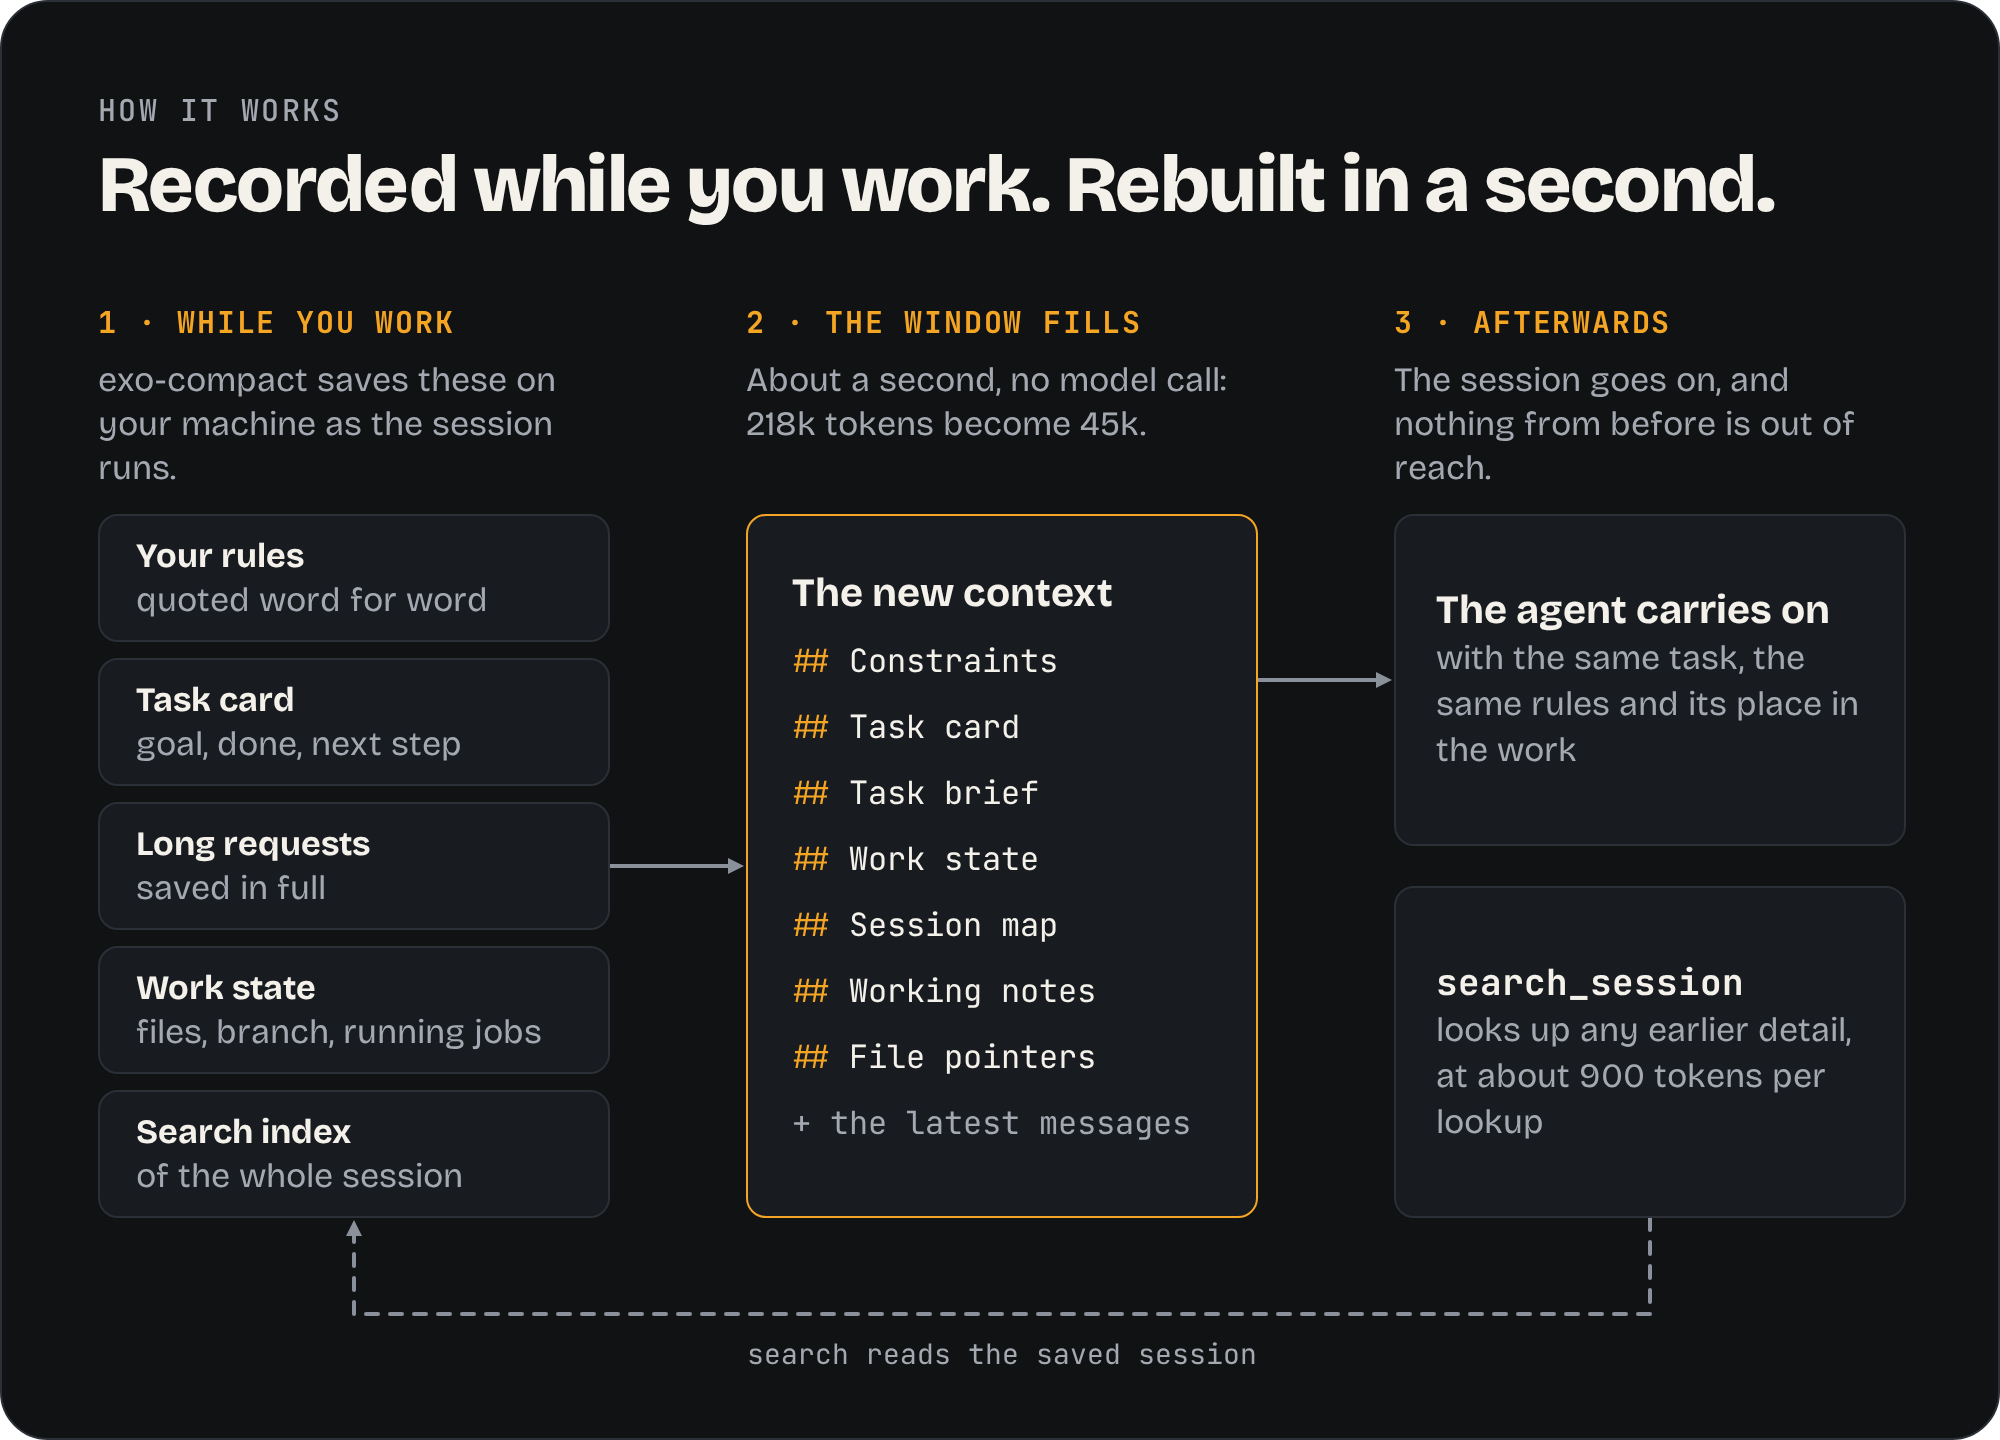
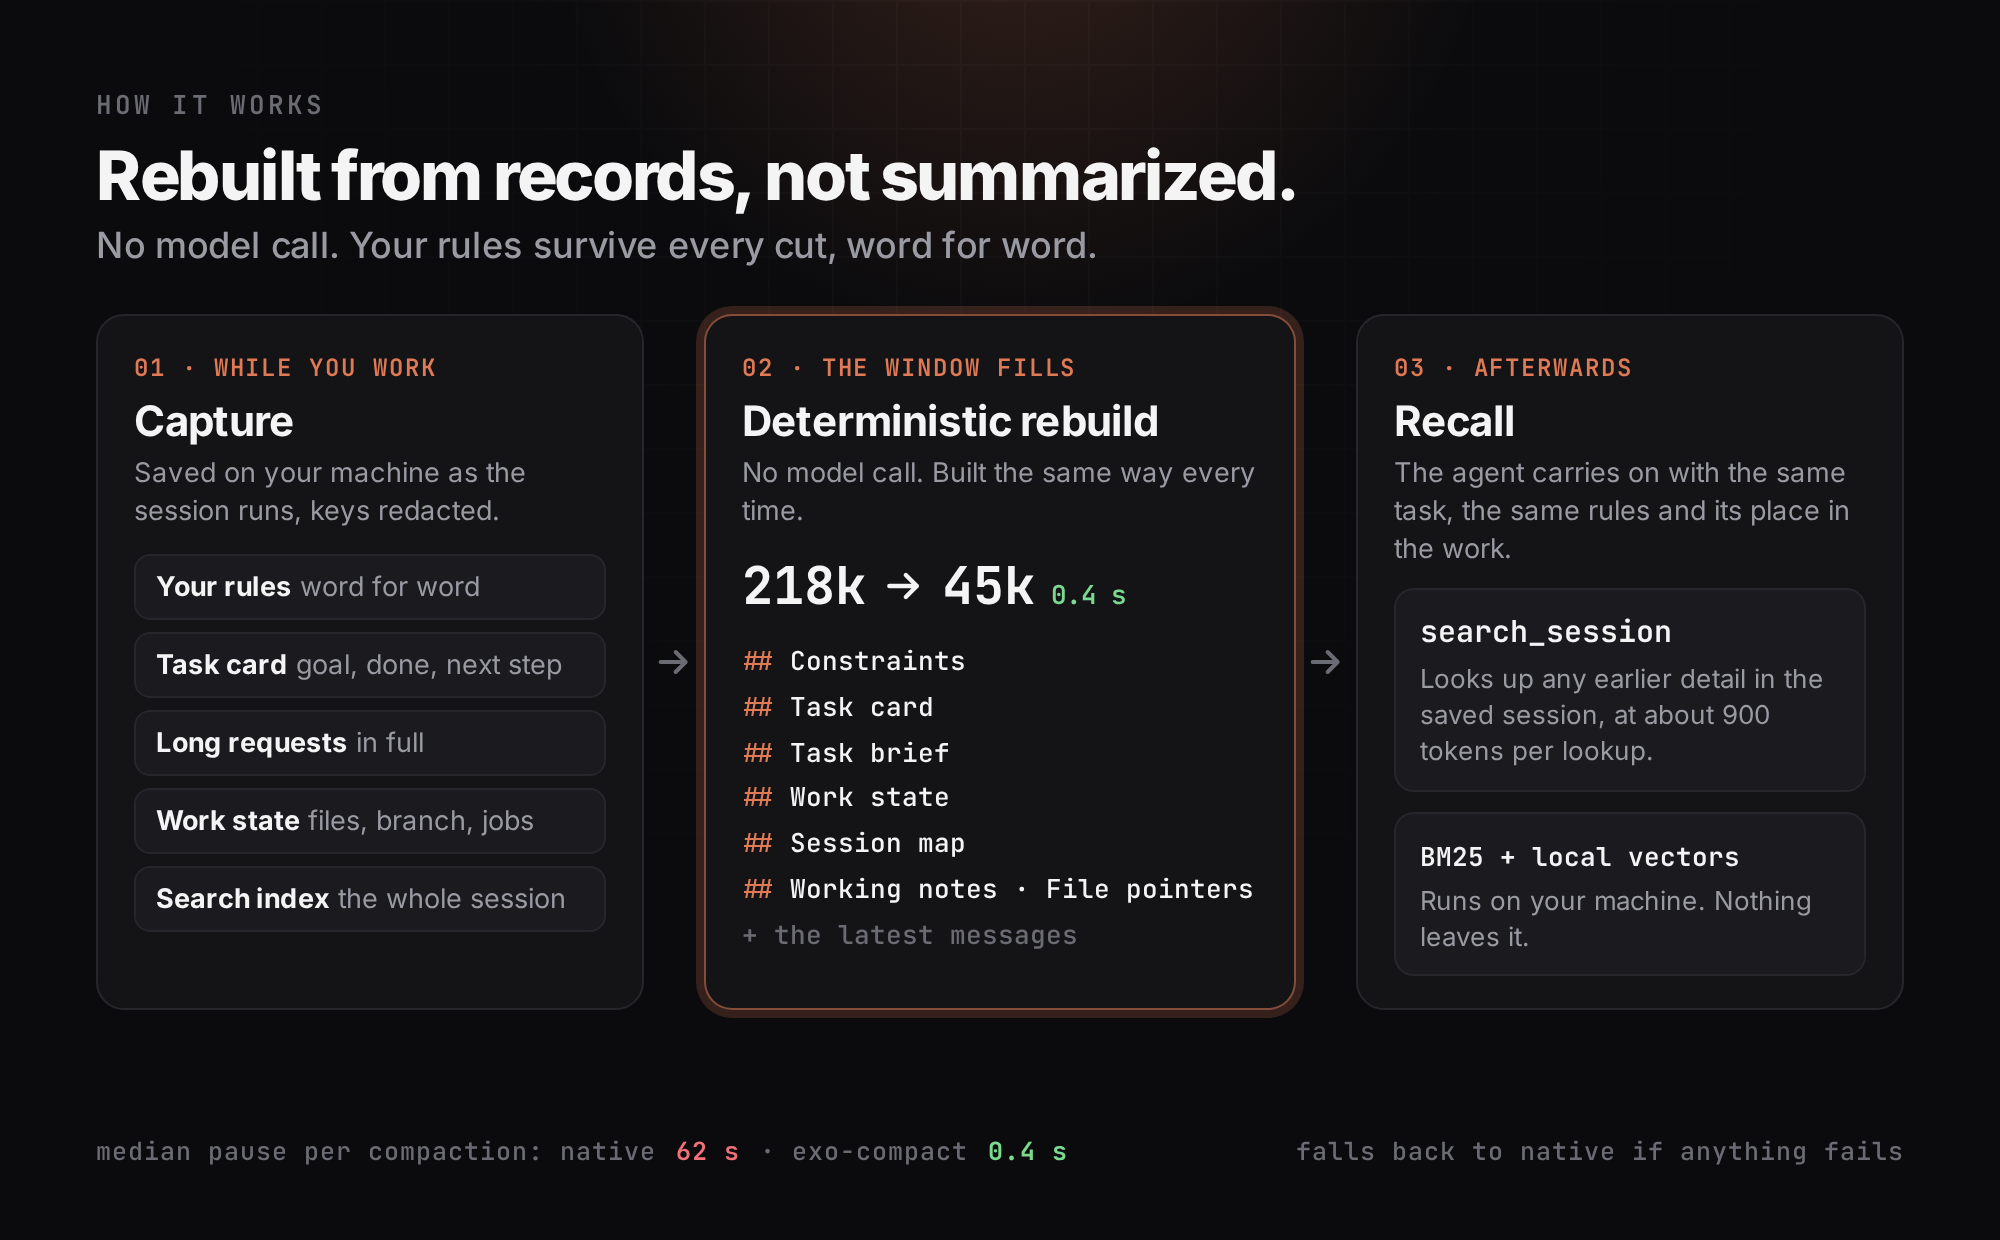
docs(readme): new lead, three-step how it works, new graphic; installer detached-HEAD fix
README:
- A lead under the badges: deterministic compaction, 0.4 s instead of 62 s, no model call;
  the context is rebuilt from records, not summarized.
- "How it works" is now three readable steps: 01 Capture, 02 Deterministic rebuild,
  03 Recall with search_session. The seed-sections block and every benchmark figure stay.
- docs/assets/how-it-works-{dark,light}.png redrawn in the new style (2000x1240).
- docs/assets/social-preview.png: the 1280x640 repository preview image.

Installer (ported from the private repo, #75): first installs no longer print Git's
detached-HEAD advice (-c advice.detachedHead=false in install.sh and install.ps1), with a test.

diff --git a/README.md b/README.md
@@ -12,6 +12,14 @@
   <img alt="Claude Code" src="https://img.shields.io/badge/Claude%20Code-%E2%89%A5%202.1.278-8A2BE2">
 </p>
 
+<h3 align="center">Deterministic compaction for Claude Code.<br>0.4 s instead of 62 s. No model call to compact.</h3>
+
+<p align="center">
+  The context is rebuilt from records, not summarized. Your rules come back word for word, the task
+  card keeps the goal and the next step, and the whole session stays searchable on your machine.
+  Keep one session working for days.
+</p>
+
 <p align="center">
   <a href="#install">Install</a> ·
   <a href="#how-it-compares">Comparison</a> ·
@@ -197,12 +205,29 @@ it rebuilds the context from those records, with no model call.
 <p align="center">
   <picture>
     <source media="(prefers-color-scheme: dark)" srcset="docs/assets/how-it-works-dark.png">
-    <img alt="How it works, in three steps. 1, while you work: exo-compact saves your rules (quoted word for word), a task card (goal, done, next step), your long requests in full, the work state (files, branch, running jobs) and a search index of the whole session, all on your machine. 2, the window fills: in about a second and with no model call, 218k tokens become 45k. The new context has the sections Constraints, Task card, Task brief, Work state, Session map, Working notes and File pointers, followed by the latest messages. 3, afterwards: the agent carries on with the same task, the same rules and its place in the work, and the search_session tool looks up any earlier detail in the saved session at about 900 tokens per lookup." src="docs/assets/how-it-works-light.png" width="880">
+    <img alt="How it works: rebuilt from records, not summarized. No model call, and your rules survive every cut word for word. 01 Capture, while you work: saved on your machine as the session runs, keys redacted: your rules word for word, a task card (goal, done, next step), your long requests in full, the work state (files, branch, jobs) and a search index of the whole session. 02 Deterministic rebuild, when the window fills: no model call, built the same way every time, 218k tokens become 45k in 0.4 s, with the sections Constraints, Task card, Task brief, Work state, Session map, Working notes and File pointers, plus the latest messages. 03 Recall, afterwards: the agent carries on with the same task, the same rules and its place in the work; the search_session tool looks up any earlier detail in the saved session at about 900 tokens per lookup, with BM25 and local vectors that run on your machine. Median pause per compaction: native 62 s, exo-compact 0.4 s. It falls back to native compaction if anything fails." src="docs/assets/how-it-works-light.png" width="880">
   </picture>
 </p>
 
-Native compaction hands the agent a summary written by the model. exo-compact hands it a
-structured context that is built the same way every time:
+Native compaction asks the model to write a summary of the conversation: a pause of about a minute,
+and your rules come back paraphrased. exo-compact does not summarize. It rebuilds the context from
+records it keeps while you work, in three steps.
+
+### 01 Capture: while you work
+
+As the session runs, exo-compact saves on your machine, with keys redacted:
+
+- your standing rules and adopted rules files, word for word;
+- a task card with the goal, the rules, what is done and the next step, kept current in the
+  background by the session's own model;
+- your newest long request, in full;
+- the work state: cwd, branch, uncommitted files, worktrees, tasks and background jobs;
+- a search index of the whole session.
+
+### 02 Deterministic rebuild: when the window fills
+
+No model call. The new context is built from those records the same way every time, in 0.4 s at
+the median (native compaction: 62 s). A typical cut takes the context from 218k tokens to 45k:
 
 ```
 ## Constraints        your standing rules and adopted rules files, quoted verbatim
@@ -215,9 +240,14 @@ structured context that is built the same way every time:
 ... followed by the most recent messages, verbatim
 ```
 
+If anything fails, the session falls back to native compaction.
+
+### 03 Recall: `search_session` afterwards
+
 Whatever does not fit is not thrown away. The agent has a `search_session` tool that searches
-the whole earlier session on your machine and returns short excerpts, so it can find an old
-decision or an exact value without loading the history back into its context.
+the whole earlier session on your machine and returns short excerpts, at about 900 tokens per
+lookup, so it can find an old decision or an exact value without loading the history back into its
+context. Search combines BM25 with optional local vectors that run on your CPU.
 
 [docs/how-it-works.md](docs/how-it-works.md) explains each step.
 

diff --git a/CHANGELOG.md b/CHANGELOG.md
@@ -2,6 +2,13 @@
 
 Notable changes per version. `plugin/compact/CONTRACT.md` has the full behavioural rules, one section per version.
 
+## Unreleased
+
+- First installs no longer print Git's detached-HEAD advice (#75).
+- README: a new lead (0.4 s instead of 62 s, no model call), a three-step "How it works" (capture, deterministic
+  rebuild, recall with `search_session`) and a new how-it-works graphic. `docs/assets/social-preview.png` is the
+  1280x640 repository preview image.
+
 ## 4.9.1 - 2026-10-25
 
 - The compact and dense timing gates measure CPU time instead of wall time, so server load no longer fails them (#68).
